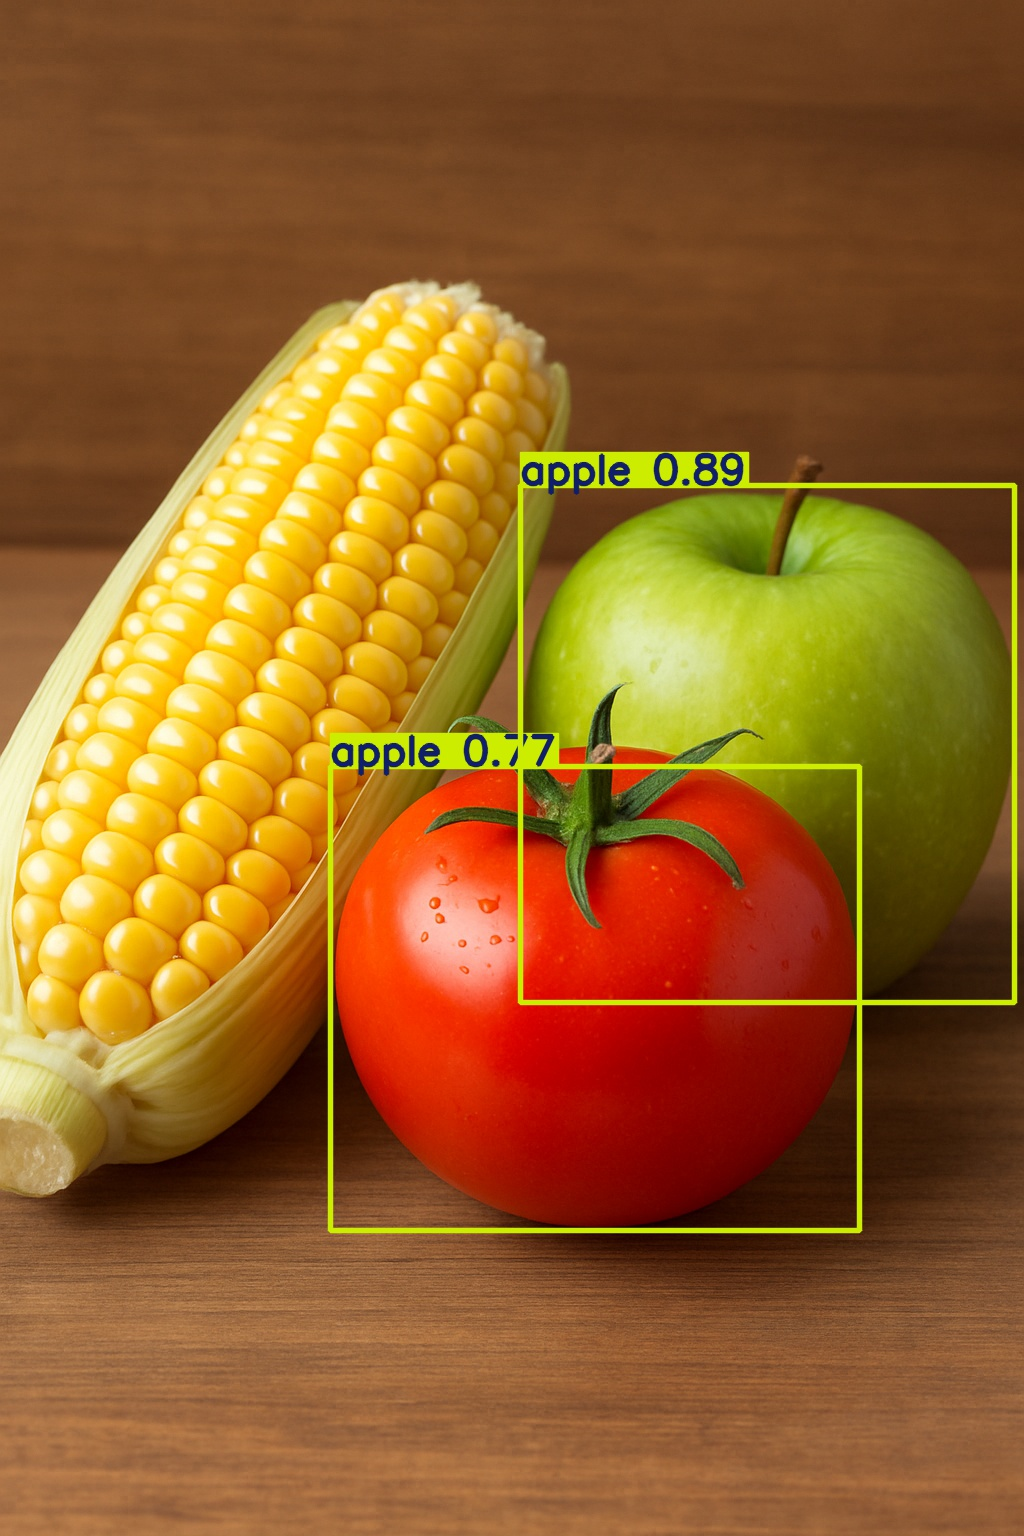
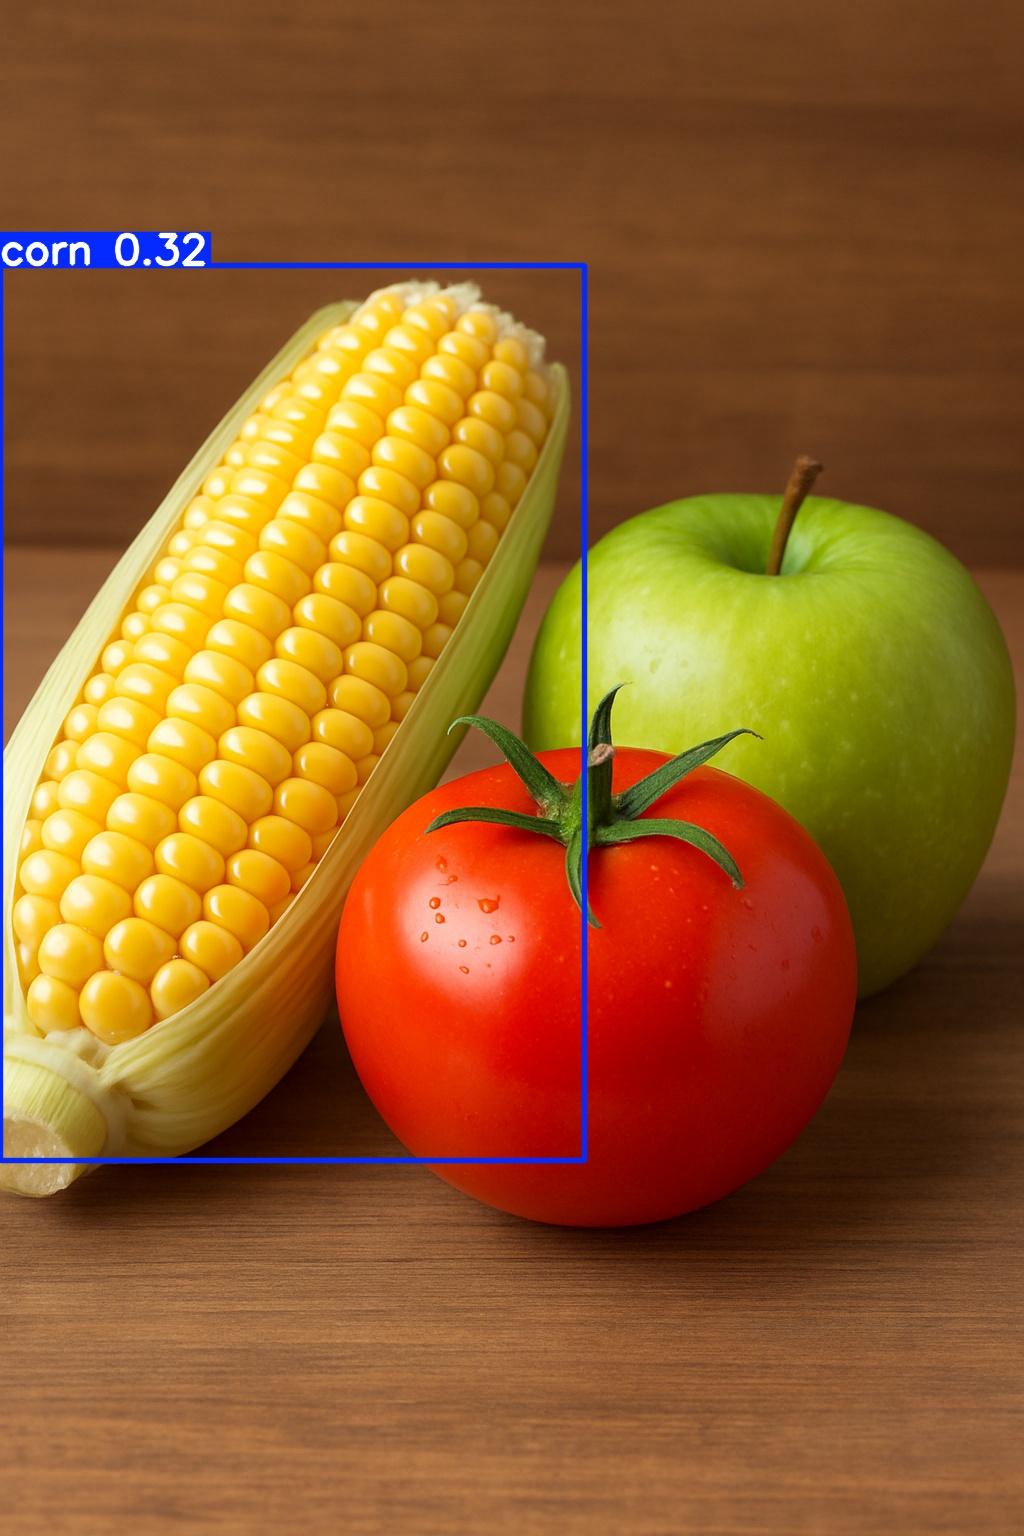
change

Changed region(s): [[0.0, 0.125, 1.0, 0.8125]]

diff --git a/detect.py b/detect.py
@@ -1,8 +1,8 @@
 from ultralytics import YOLO
 
 # Load a model
-# model = YOLO("./runs/detect/train/weights/best.pt")  # pretrained YOLO11n model
-model = YOLO("yolo11n.pt")  
+model = YOLO("./runs/detect/train/weights/best.pt")  # pretrained YOLO11n model
+# model = YOLO("yolo11n.pt")  
 
 # Run batched inference on a list of images
 results = model(["./test.png"])  # return a list of Results objects
